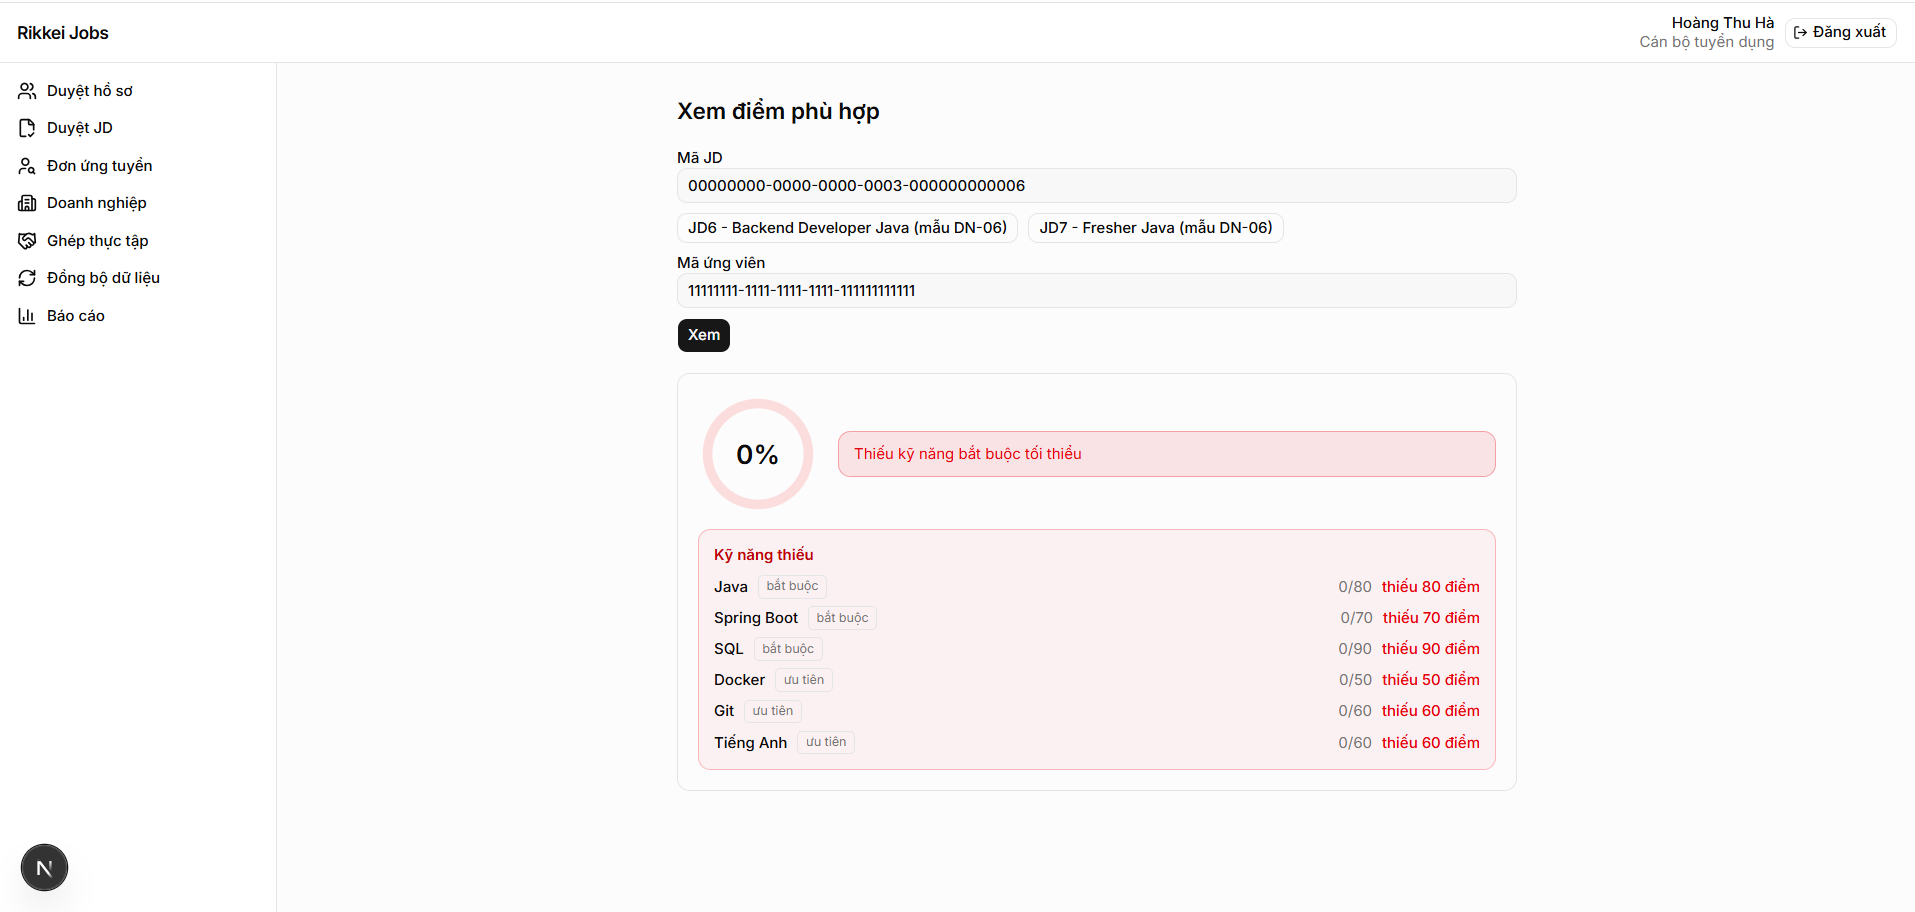
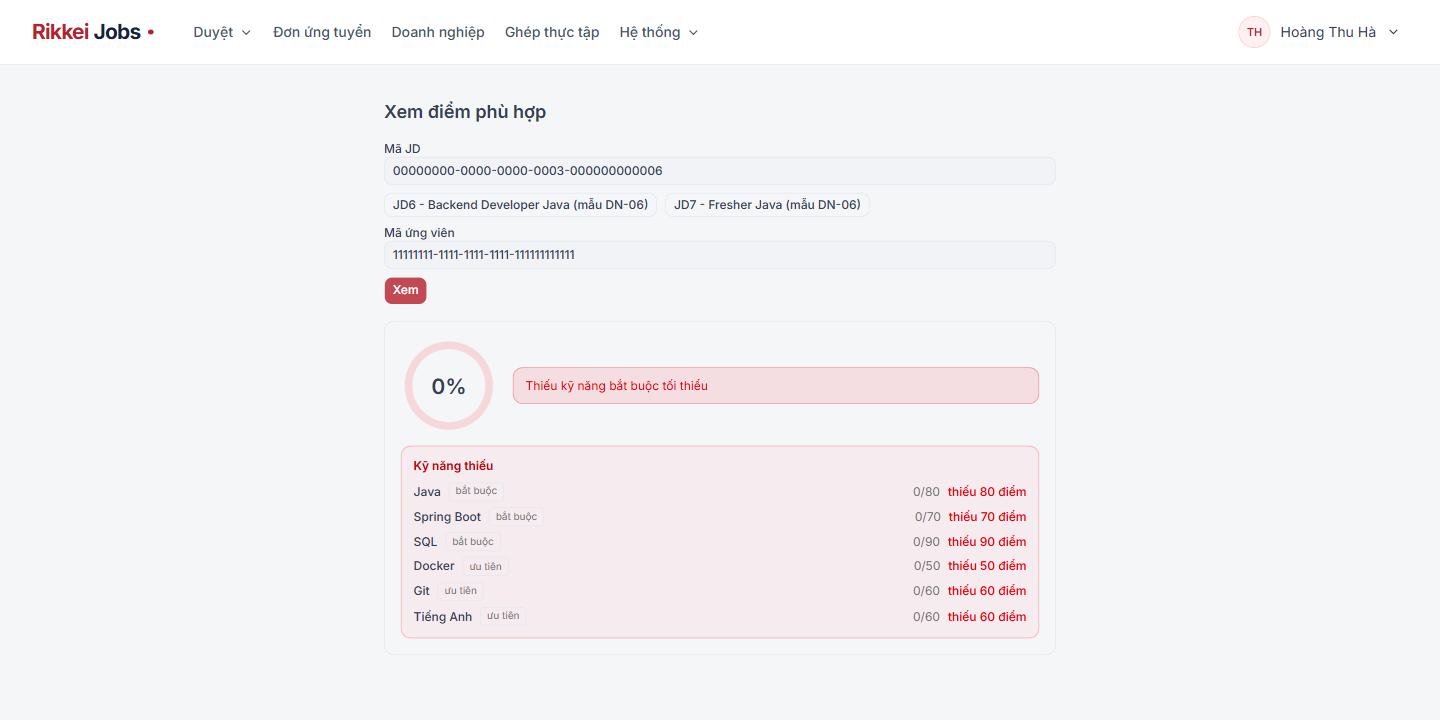
docs(DN-06): retake match preview screenshots in staff topbar

diff --git a/docs/api/DN-06-job-match.md b/docs/api/DN-06-job-match.md
@@ -192,13 +192,22 @@ Ba ví dụ (request tương ứng trong `DN-06.http`):
 - **Test backend tự động** (`mvn -f server/pom.xml clean test`, 2026-11-19): common-core 14, api-gateway 20, identity-service 266, profile-service 143 (1 bỏ qua, gồm `InternalVerifiedSkillsApiTest`), company-service 206 (gồm `MatchCalculatorTest`, `JobMatchApiTest`), internship / assessment / learning mỗi service 5 đều đạt. **recruitment-service 98/98 đạt** (gồm `InternalApplicationExistsApiTest`) ở commit `e91dbd0`, chạy với DB riêng `rikkei_jobs_test` qua `UT01_TEST_DB_*` và `-Dspring.datasource.hikari.maximum-pool-size=2` (cách ở mục 5). Toàn bộ backend xanh ở `e91dbd0`.
 - **2026-11-19, chạy thật toàn luồng** theo mục 5 (Postgres và MailHog trong Docker, mock LMS, identity + profile + recruitment + company-service, gateway, web; profile chạy profile `dev` với `PROFILE_DEMO_DATA_ENABLED=true`, `INTERNAL_SERVICE_KEY=dev-internal-key` ở cả ba service). staff1 mở `/staff/match-preview`; **cả 3 ví dụ ở mục 6 ra đúng điểm tính tay**:
 
+  | Ví dụ | Kết quả trên giao diện |
+  | --- | --- |
+  | 1. JD6 × C1 | **78%**. Đạt: Java 82.1/80, Spring Boot 80.5/70, Git 90/60. Thiếu: SQL 81.2/90 "thiếu 9 điểm", Docker 0/50, Tiếng Anh 0/60 (điểm tự khai 65 không được tính) |
+  | 2. JD7 × C3 | **60%**, banner "Thiếu kỹ năng bắt buộc tối thiểu". Thiếu: Git 0/60, Java 49.1/60 "thiếu 11 điểm", SQL 58.8/60 "thiếu 2 điểm" |
+  | 3. JD6 × ứng viên chưa có kỹ năng (`11111111-1111-1111-1111-111111111111`) | **0%**, banner, thiếu đủ 6 kỹ năng |
+
+  Điểm `verified_score` thật trong DB lúc đó trùng bảng ở mục 6 (giao diện làm tròn 1 chữ số thập phân). Lỗi gặp khi chạy: profile-service và recruitment-service chạy thiếu `INTERNAL_SERVICE_KEY` thì trang báo "Không lấy được điểm kỹ năng của ứng viên" (company trả 503). Đặt biến trong đúng terminal hoặc cấu hình đang chạy service rồi khởi động lại là hết.
+- **2026-11-25, chụp lại ảnh minh chứng** ở thanh ngang cán bộ (sau DN-05 UI refresh). Lần này profile-service tính lại điểm khi khởi động (`skill_scores.updated_at` 2026-11-25), nên hai điểm của ứng viên mẫu khác bảng ở mục 6: C1 Spring Boot 79,545455 (cũ 80,454545) và C3 Java 56,111111 (cũ 49,117647). Ảnh hiện điểm theo DB lúc chụp và vẫn khớp công thức:
+
   | Ví dụ | Kết quả trên giao diện | Ảnh |
   | --- | --- | --- |
-  | 1. JD6 × C1 | **78%**. Đạt: Java 82.1/80, Spring Boot 80.5/70, Git 90/60. Thiếu: SQL 81.2/90 "thiếu 9 điểm", Docker 0/50, Tiếng Anh 0/60 (điểm tự khai 65 không được tính) | ![JD6 × C1](screenshots/DN-06/jd6-candidate1.png) |
-  | 2. JD7 × C3 | **60%**, banner "Thiếu kỹ năng bắt buộc tối thiểu". Thiếu: Git 0/60, Java 49.1/60 "thiếu 11 điểm", SQL 58.8/60 "thiếu 2 điểm" | ![JD7 × C3](screenshots/DN-06/jd7-candidate3.png) |
-  | 3. JD6 × ứng viên chưa có kỹ năng (`11111111-1111-1111-1111-111111111111`) | **0%**, banner, thiếu đủ 6 kỹ năng | ![JD6 × chưa có kỹ năng](screenshots/DN-06/jd6-no-skill.png) |
+  | 1. JD6 × C1 | **78%** như cũ. Spring Boot 79.5/70 vẫn đạt; phần đạt chặn ở 1 nên tổng không đổi | ![JD6 × C1](screenshots/DN-06/jd6-candidate1.png) |
+  | 2. JD7 × C3 | **64%**: (56.1/60 + 58.8/60 + 0) / 3 = 0,639 → 64. Java "thiếu 4 điểm", vẫn có banner vì Git 0 < 30 | ![JD7 × C3](screenshots/DN-06/jd7-candidate3.png) |
+  | 3. JD6 × ứng viên chưa có kỹ năng | **0%**, banner, thiếu đủ 6 kỹ năng | ![JD6 × chưa có kỹ năng](screenshots/DN-06/jd6-no-skill.png) |
 
-  Điểm `verified_score` thật trong DB trùng bảng ở mục 6 (giao diện làm tròn 1 chữ số thập phân). Lỗi gặp khi chạy: profile-service và recruitment-service chạy thiếu `INTERNAL_SERVICE_KEY` thì trang báo "Không lấy được điểm kỹ năng của ứng viên" (company trả 503). Đặt biến trong đúng terminal hoặc cấu hình đang chạy service rồi khởi động lại là hết.
+  Test tự động (`MatchCalculatorTest`) dùng điểm cố định theo bảng ở mục 6 nên không đổi.
 - `web/`: `npm run type-check` sạch, `npm run lint` 0 lỗi (1 cảnh báo có sẵn ở `commitlint.config.mjs`), `npm run build` thành công, có route `/staff/match-preview`.
 
 ## 9. Ghi chú cho UT-02, DN-03, DN-04
